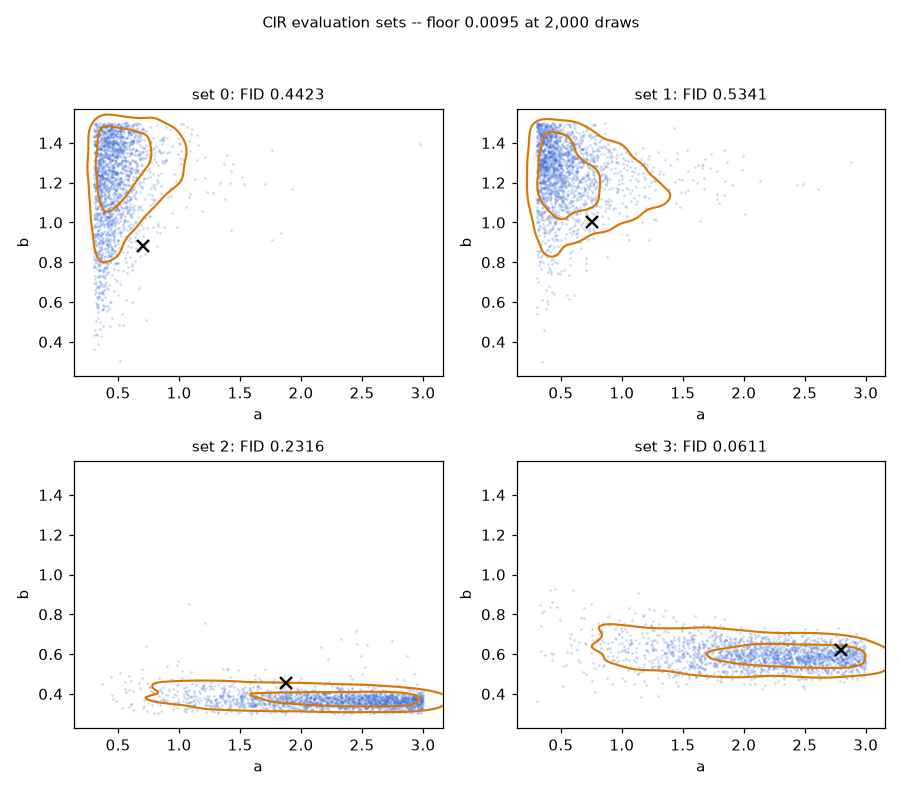
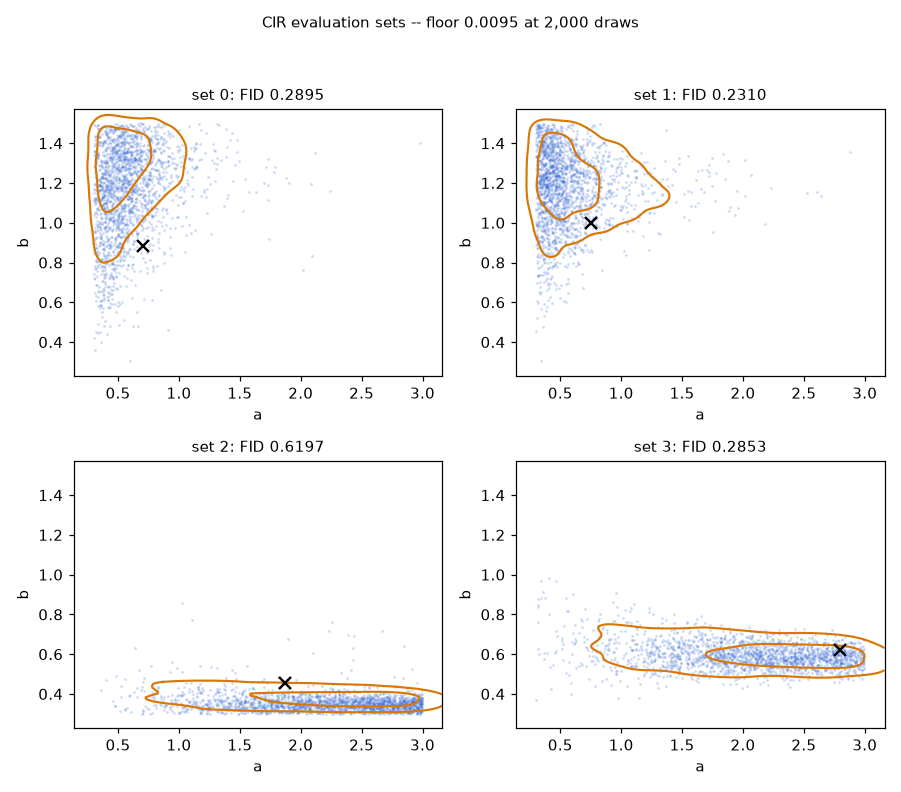
One universal embedding default; the pair embedding becomes an explicit option
The markov_observed class rule is removed from the embed="auto" resolution:
every variable-design problem now defaults to bare-point tokens with the
learnable warp, and the consecutive-pair embedding (embed="wfilm"/"wpair")
is selected only when a user asks for it. The flag stays as inert metadata.

Gallery re-measured under the default: GBM quickstart FID 0.028 -> 0.165
(the pair embedding, now quoted as the opt-in, recovers 0.028); CIR improves
to median FID 0.287 (from 0.337 - the class rule was not helping there);
front-page animations regenerated with the default model. Pages and tables
updated; 46 tests pass, including the new default-invariance check.

diff --git a/amortix/flow.py b/amortix/flow.py
@@ -357,12 +357,12 @@ class FlowPosterior(nn.Module):
             # embedding.
             from .sde import PathObserver
             if is_design:
-                # class rule, verified from both sides: consecutive-pair
-                # structure is sufficient iff the observed process is
-                # Markov; otherwise bare points are the correct (and
-                # measured-best) token.
-                embed = ("wfilm" if getattr(problem, "markov_observed", False)
-                         else "wpoint")
+                # one universal default for every variable-design problem:
+                # bare-point tokens with the learnable warp. The pair
+                # embedding (embed="wfilm"/"wpair"), which adds consecutive
+                # warped-increment features, is an explicit opt-in -- it is
+                # never selected automatically.
+                embed = "wpoint"
             elif isinstance(problem.observer, PathObserver):
                 embed = "wbasis"
             else:

diff --git a/tests/test_smoke.py b/tests/test_smoke.py
@@ -374,9 +374,13 @@ def test_design_zoo_end_to_end():
         m, raw = prob.simulate(4)
         assert torch.isfinite(raw).all(), name
         post = FlowPosterior(prob, dim_model=32, depth=2)
-        expected = (SetCondPairEmbed if getattr(prob, "markov_observed", False)
-                    else PointEmbed)
-        assert isinstance(post.encoder.embed, expected), name
+        # one universal default for every design problem; the pair embedding
+        # is opt-in only
+        assert isinstance(post.encoder.embed, PointEmbed), name
+        assert isinstance(
+            FlowPosterior(prob, dim_model=32, depth=2,
+                          embed="wfilm").encoder.embed,
+            SetCondPairEmbed), name
         post.fit(n_train=32, epochs=1, batch=16, verbose=False,
                  retokenize=prob.make_retokenizer())
         gen = torch.Generator().manual_seed(0)

diff --git a/examples/gallery/01_quickstart_gbm.py b/examples/gallery/01_quickstart_gbm.py
@@ -28,7 +28,6 @@ MEDIA = os.path.join(os.path.dirname(os.path.abspath(__file__)),
 class GBM(DesignProblem):
     """dS = mu S dt + sigma S dW, S0 = 1, observed at arbitrary times."""
 
-    markov_observed = True      # observations determine the state exactly
 
     def __init__(self):
         self.prior = BoxUniform(low=[-0.20, 0.10], high=[0.40, 0.60],

diff --git a/examples/gallery/pages/exact_reference_cir.md b/examples/gallery/pages/exact_reference_cir.md
@@ -1,6 +1,6 @@
 # A frozen evaluation set carries validated exact-likelihood references and its own resolution floor
 
-The other gallery pages train a model and check it against a single reference instance; this one runs the package's full evaluation instrument. `build_eval_set` freezes four observation instances of the Cox--Ingersoll--Ross process at $K = 20$ points each, draws **two independent** exact-likelihood MCMC chains per instance, refuses the set if the chains disagree, and records the set's own resolution floor; `evaluate` then scores a trained posterior against it in seconds. CIR is imported from the package rather than defined in the script: its simulator draws the exact noncentral chi-square transition, and that simulator is what makes an exact-likelihood reference possible at all — defining your own system is [`01_quickstart_gbm.py`](../01_quickstart_gbm.py) and [`04_custom_problem.py`](../04_custom_problem.py). A `tiny` model trained at a small budget (8,000 trajectories, 3,000 optimizer steps) scores a median FID of 0.3369 against a floor of 0.0095: a well-resolved measurement of a posterior that the budget leaves visibly over-dispersed.
+The other gallery pages train a model and check it against a single reference instance; this one runs the package's full evaluation instrument. `build_eval_set` freezes four observation instances of the Cox--Ingersoll--Ross process at $K = 20$ points each, draws **two independent** exact-likelihood MCMC chains per instance, refuses the set if the chains disagree, and records the set's own resolution floor; `evaluate` then scores a trained posterior against it in seconds. CIR is imported from the package rather than defined in the script: its simulator draws the exact noncentral chi-square transition, and that simulator is what makes an exact-likelihood reference possible at all — defining your own system is [`01_quickstart_gbm.py`](../01_quickstart_gbm.py) and [`04_custom_problem.py`](../04_custom_problem.py). A `tiny` model trained at a small budget (8,000 trajectories, 3,000 optimizer steps) scores a median FID of 0.2874 against a floor of 0.0095: a well-resolved measurement of a posterior that the budget leaves visibly over-dispersed.
 
 <img src="../../../docs/media/cir_reference.png" width="100%">
 
@@ -92,37 +92,37 @@ The training trace of the recorded run (`cfm` is the flow-matching training loss
 
 ```
 [fit] simulating 8000 training trajectories (31 batches/epoch)...
-  epoch   0  step     31  cfm 2.1138  (38.1s)
-  epoch   9  step    310  cfm 0.8374  (396.2s)
-  epoch  18  step    589  cfm 0.7510  (734.8s)
-  epoch  27  step    868  cfm 0.7380  (1127.6s)
-  epoch  36  step   1147  cfm 0.7375  (1464.1s)
-  epoch  45  step   1426  cfm 0.7238  (1690.9s)
-  epoch  54  step   1705  cfm 0.7240  (1876.3s)
-  epoch  63  step   1984  cfm 0.7061  (2075.1s)
-  epoch  72  step   2263  cfm 0.7162  (2216.6s)
-  epoch  81  step   2542  cfm 0.7045  (2277.4s)
-  epoch  90  step   2821  cfm 0.7073  (2343.2s)
-  epoch  96  step   3007  cfm 0.7015  (2403.0s)
+  epoch   0  step     31  cfm 2.0689  (12.1s)
+  epoch   9  step    310  cfm 0.9884  (88.3s)
+  epoch  18  step    589  cfm 0.8051  (172.2s)
+  epoch  27  step    868  cfm 0.7754  (247.0s)
+  epoch  36  step   1147  cfm 0.7655  (332.0s)
+  epoch  45  step   1426  cfm 0.7478  (405.0s)
+  epoch  54  step   1705  cfm 0.7434  (509.9s)
+  epoch  63  step   1984  cfm 0.7209  (601.7s)
+  epoch  72  step   2263  cfm 0.7246  (674.5s)
+  epoch  81  step   2542  cfm 0.7123  (748.9s)
+  epoch  90  step   2821  cfm 0.7144  (816.0s)
+  epoch  96  step   3007  cfm 0.7075  (862.2s)
 ```
 
 and the final printout:
 
 ```
 evaluation set: EvalSet(cir, K=20, 4 sets, chain=20000, floor=0.0087, max inter-chain 0.100 sd)
-median FID 0.3369 against a floor of 0.0095
+median FID 0.2874 against a floor of 0.0095
 ```
 
 The repr is the set's own certificate: the worst per-parameter disagreement between the two reference chains is 0.100 posterior standard deviations, against the admission limit of 0.25, and the floor at the stored chain length is 0.0087. The score line quotes 0.0095 instead — the same floor recomputed at the 2,000-draw configuration of the measurement, as the source comment above requires.
 
-The per-set FIDs in the figure are 0.4423, 0.5341, 0.2316 and 0.0611 — the printed 0.3369 is their median. The spread of nearly an order of magnitude across four instances is why the default `n_sets` is 32; this script builds 4 to keep the reference chains to minutes. The figure shows what the numbers mean: in sets 0--2 the blue draws cover the orange reference regions but spill well beyond them — toward larger $a$ and across $b$ — so the amortized posterior at this budget is too wide rather than centered in the wrong place; set 3 sits nearly on top of its reference at 0.0611.
+The per-set FIDs in the figure are 0.2895, 0.2310, 0.6197 and 0.2853 — the printed 0.2874 is their median. The spread across instances is why the default `n_sets` is 32; this script builds 4 to keep the reference chains to minutes. The figure shows what the numbers mean: in every set the blue draws cover the orange reference regions but extend beyond them, so the amortized posterior at this budget is too wide rather than centered in the wrong place; the worst score (set 2, 0.62) comes from the long ridge along $a$ that the model resolves only partially.
 
 The over-dispersion reflects the training budget. This run uses the `tiny` model with 8,000 simulations and 3,000 optimizer steps; the technical report's main comparison trains the same architecture under the full recipe — 90,000 optimizer steps, simulation budgets from 5,000 to 480,000 per system — and its Cox--Ingersoll--Ross row reads $0.0733 \pm 0.0110$ at the same `tiny` size (against a floor of 0.0028 on the report's longer-chain sets).
 
 ## Verification
 
 * **Two independent chains, and a gate.** Every instance carries two reference draws from different seeds, and `build_eval_set` raises rather than returning a set whose chains disagree by more than 0.25 posterior standard deviations on any parameter of any instance. The gate runs on every execution of this script; the recorded run passed it at 0.100 sd.
-* **The floor travels with the score.** 0.3369 is printed next to 0.0095 in the same line, and the floor is itself a measurement: the FID between the two reference chains at the measurement's own draw count. The ratio here is about 35; `evaluate` flags a comparison as unresolved when it falls below roughly 2.
+* **The floor travels with the score.** 0.2874 is printed next to 0.0095 in the same line, and the floor is itself a measurement: the FID between the two reference chains at the measurement's own draw count. The ratio here is about 30; `evaluate` flags a comparison as unresolved when it falls below roughly 2.
 * **The reference describes the simulator, exactly.** The likelihood the chains sample is the noncentral chi-square transition over each observed gap plus the stationary Gamma start — the same distributions the simulator draws from, so no discretization error separates the data-generating chain from the posterior it is scored against.
 
 Unlike the GBM and oscillator pages, this example has no shrunk counterpart pinned in [`tests/test_examples.py`](../../../tests/test_examples.py); the checks above are the instrument's own, and the admission gate re-runs whenever the set is rebuilt.

diff --git a/examples/gallery/pages/quickstart_gbm.md b/examples/gallery/pages/quickstart_gbm.md
@@ -1,6 +1,6 @@
 # The amortized posterior matches the exact GBM posterior at arbitrary observation points
 
-The example script contains the whole problem definition — a prior box, a simulator loop, an observation grid. A small design-amortized posterior trains on it for 1,200 optimizer steps on a laptop CPU and then answers one fresh observation set: 20 points of a single path at uniformly random times. For geometric Brownian motion the posterior on any such point set exists in closed form, and that referee is the only piece imported from the package. The comparison is quantitative: the run below reaches a squared Fréchet distance (FID) of 0.0281 between 2,000 amortized draws and 2,000 exact draws, where two independent 2,000-draw sets from the *same* distribution already score about 0.004.
+The example script contains the whole problem definition — a prior box, a simulator loop, an observation grid. A small design-amortized posterior trains on it for 1,200 optimizer steps on a laptop CPU and then answers one fresh observation set: 20 points of a single path at uniformly random times. For geometric Brownian motion the posterior on any such point set exists in closed form, and that referee is the only piece imported from the package. The comparison is quantitative: with the package default (bare-point tokens) the run below reaches a squared Fréchet distance (FID) of 0.165 between 2,000 amortized draws and 2,000 exact draws, where two independent 2,000-draw sets from the *same* distribution already score about 0.004; the opt-in pair embedding (`embed="wfilm"`, which adds learnable warped-increment features) brings the same budget to 0.028.
 
 <img src="../../../docs/media/quickstart_gbm.png" width="100%">
 
@@ -32,7 +32,6 @@ The script contains the full problem definition. A `DesignProblem` subclass stat
 class GBM(DesignProblem):
     """dS = mu S dt + sigma S dW, S0 = 1, observed at arbitrary times."""
 
-    markov_observed = True      # observations determine the state exactly
 
     def __init__(self):
         self.prior = BoxUniform(low=[-0.20, 0.10], high=[0.40, 0.60],
@@ -133,8 +132,8 @@ and the final printout:
 
 ```
 true parameters : [0.25457894802093506, 0.23965543508529663]
-posterior mean  : [0.24510666728019714, 0.2736765742301941]
-FID vs exact    : 0.0281 (estimator floor at n=2000 is ~0.004)
+posterior mean  : [0.2282574474811554, 0.28653472661972046]
+FID vs exact    : 0.1646 (estimator floor at n=2000 is ~0.004)
 ```
 
 Training takes about 25 minutes here (1499.3 s at the last logged step); sampling the 2,000 posterior draws afterwards takes milliseconds. The observation set and the reference are fixed by explicit seeds, so the true parameters and the exact posterior reproduce exactly; the trained network — and with it the posterior mean and the FID — varies slightly between platforms, which is why the test below asserts a ratio rather than this exact number.
@@ -142,7 +141,7 @@ Training takes about 25 minutes here (1499.3 s at the last logged step); samplin
 ## Verification
 
 * [`tests/test_examples.py`](../../../tests/test_examples.py)`::test_gbm_beats_prior_fid` pins a shrunk version of this script — the `pico` model (width 8, two blocks), `n_train=1500`, 400 optimizer steps, the same seed-1 observation set — and requires the trained posterior's FID against the exact posterior to be at most half the FID of 2,000 prior samples against the same reference (`assert f_model <= 0.5 * f_prior`). The test imports the `GBM` class from this example file itself, so the problem it pins is the one shown above.
-* The FID estimator is positive even for two draw sets from the same distribution, at order $d/n$; at $n = 2000$ this floor is about 0.004, so the run's 0.0281 is to be read against 0.004 as the value indistinguishable from a perfect match at this draw count, and against the much larger FID of prior samples pinned by the test.
+* The FID estimator is positive even for two draw sets from the same distribution, at order $d/n$; at $n = 2000$ this floor is about 0.004, so the run's 0.165 is to be read against 0.004 as the value indistinguishable from a perfect match at this draw count, and against the much larger FID of prior samples pinned by the test.
 * The reference guards its own validity: `gbm_exact_from_points` raises when the effective sample size of the importance correction stays below the requested draw count, so a degraded reference cannot silently enter the comparison.
 
 ## Running the example

diff --git a/examples/gallery/README.md b/examples/gallery/README.md
@@ -15,8 +15,10 @@ with `--png` and caches its trained model with `--ckpt PATH`.
 <b><a href="pages/quickstart_gbm.md">quickstart_gbm</a></b> (<a href="01_quickstart_gbm.py">code</a>) —
 geometric Brownian motion dS = &mu;S&thinsp;dt + &sigma;S&thinsp;dW recovered from 20 points at
 random times, with the whole interface written out in the file: prior box, simulator loop,
-observation grid. The tiny posterior of this run reaches FID 0.028 against the exact posterior
-on the same points, where the 2,000-draw sampling floor is about 0.004.
+observation grid. With the package default (bare-point tokens) this run reaches FID 0.16
+against the exact posterior on the same points (2,000-draw sampling floor about 0.004);
+passing the opt-in pair embedding, <code>embed="wfilm"</code>, brings the
+same budget to FID 0.028.
 <i>Reference: the exact conjugate posterior, in closed form.</i>
 </td>
 <td width="50%">
